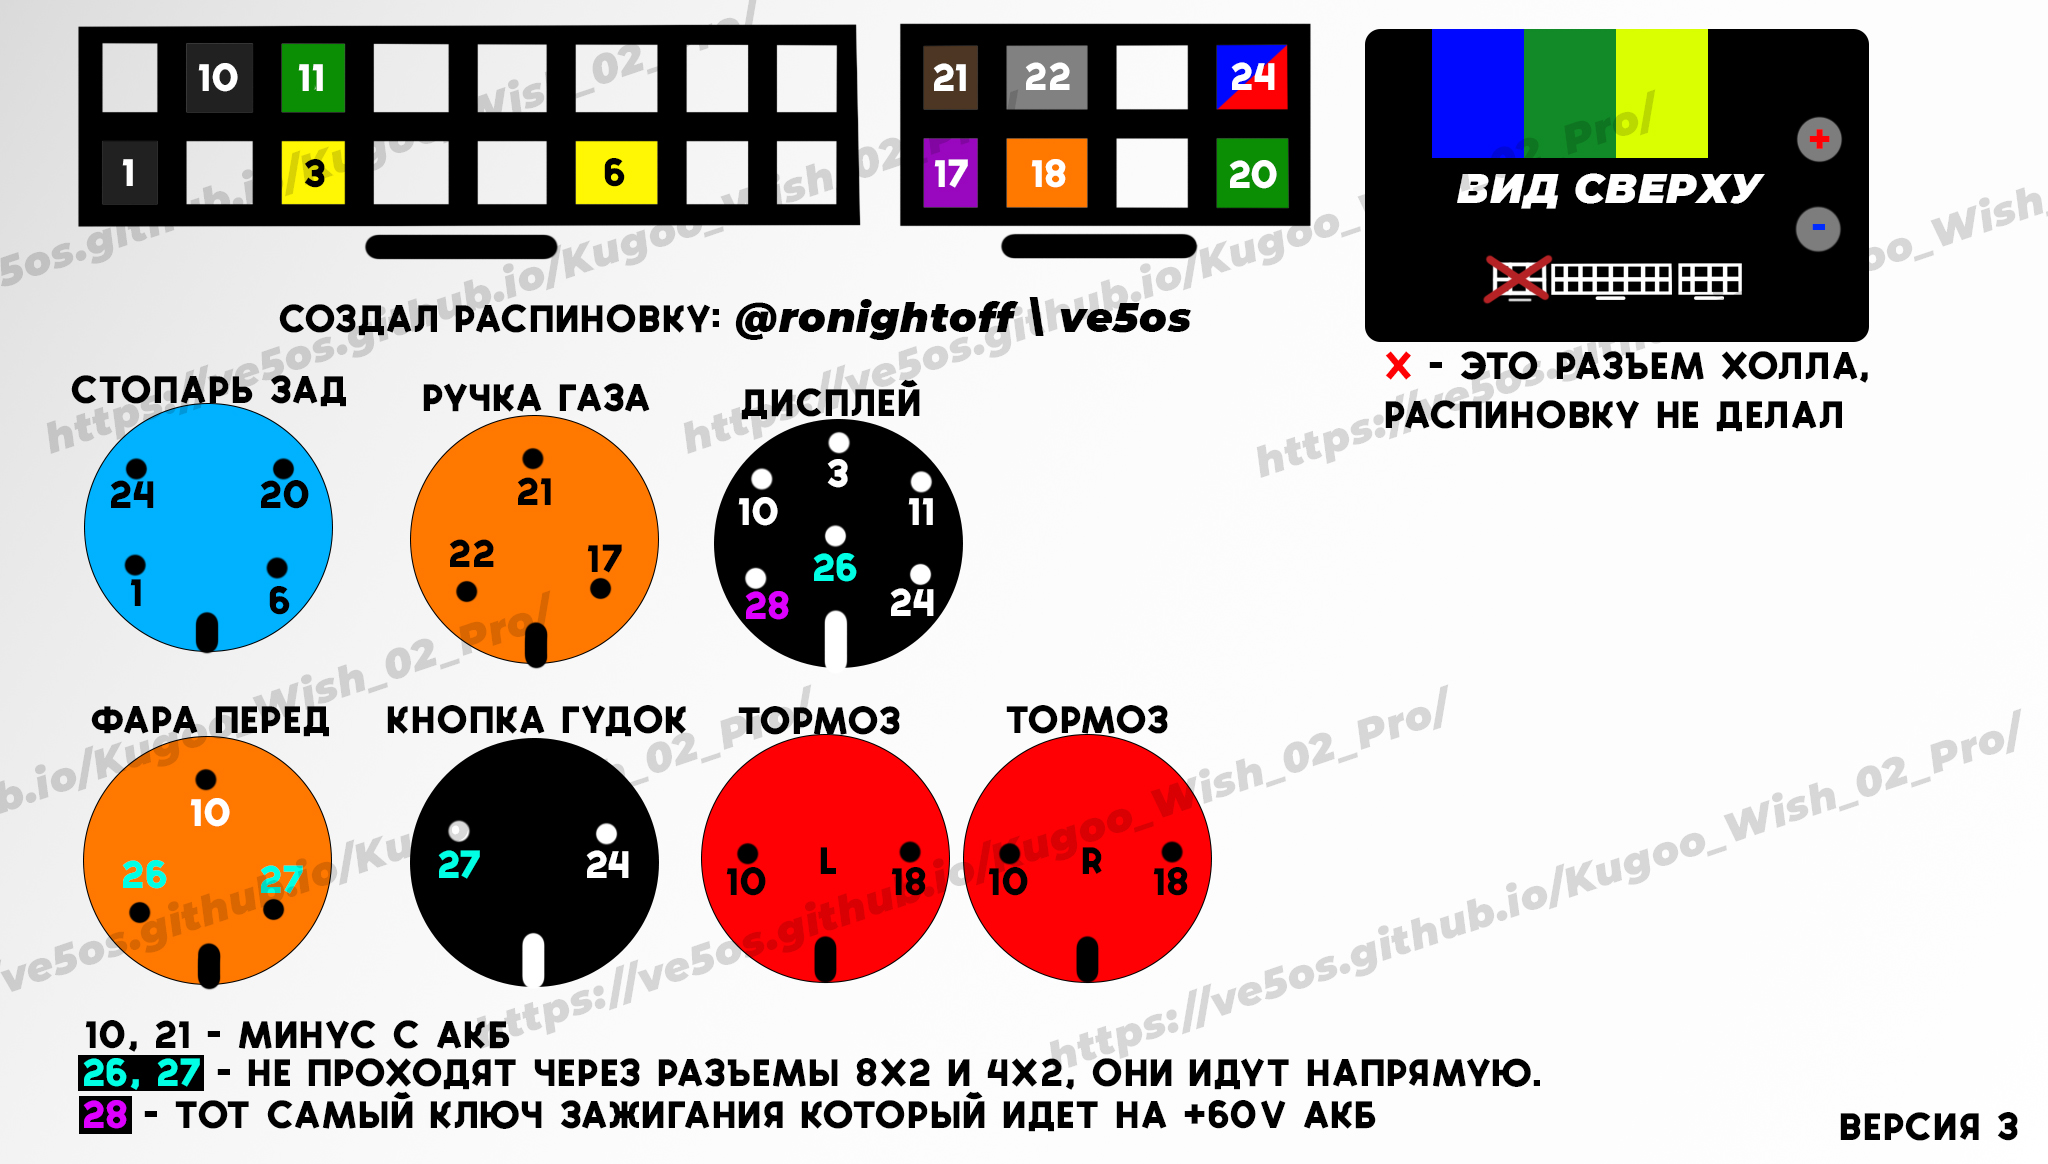
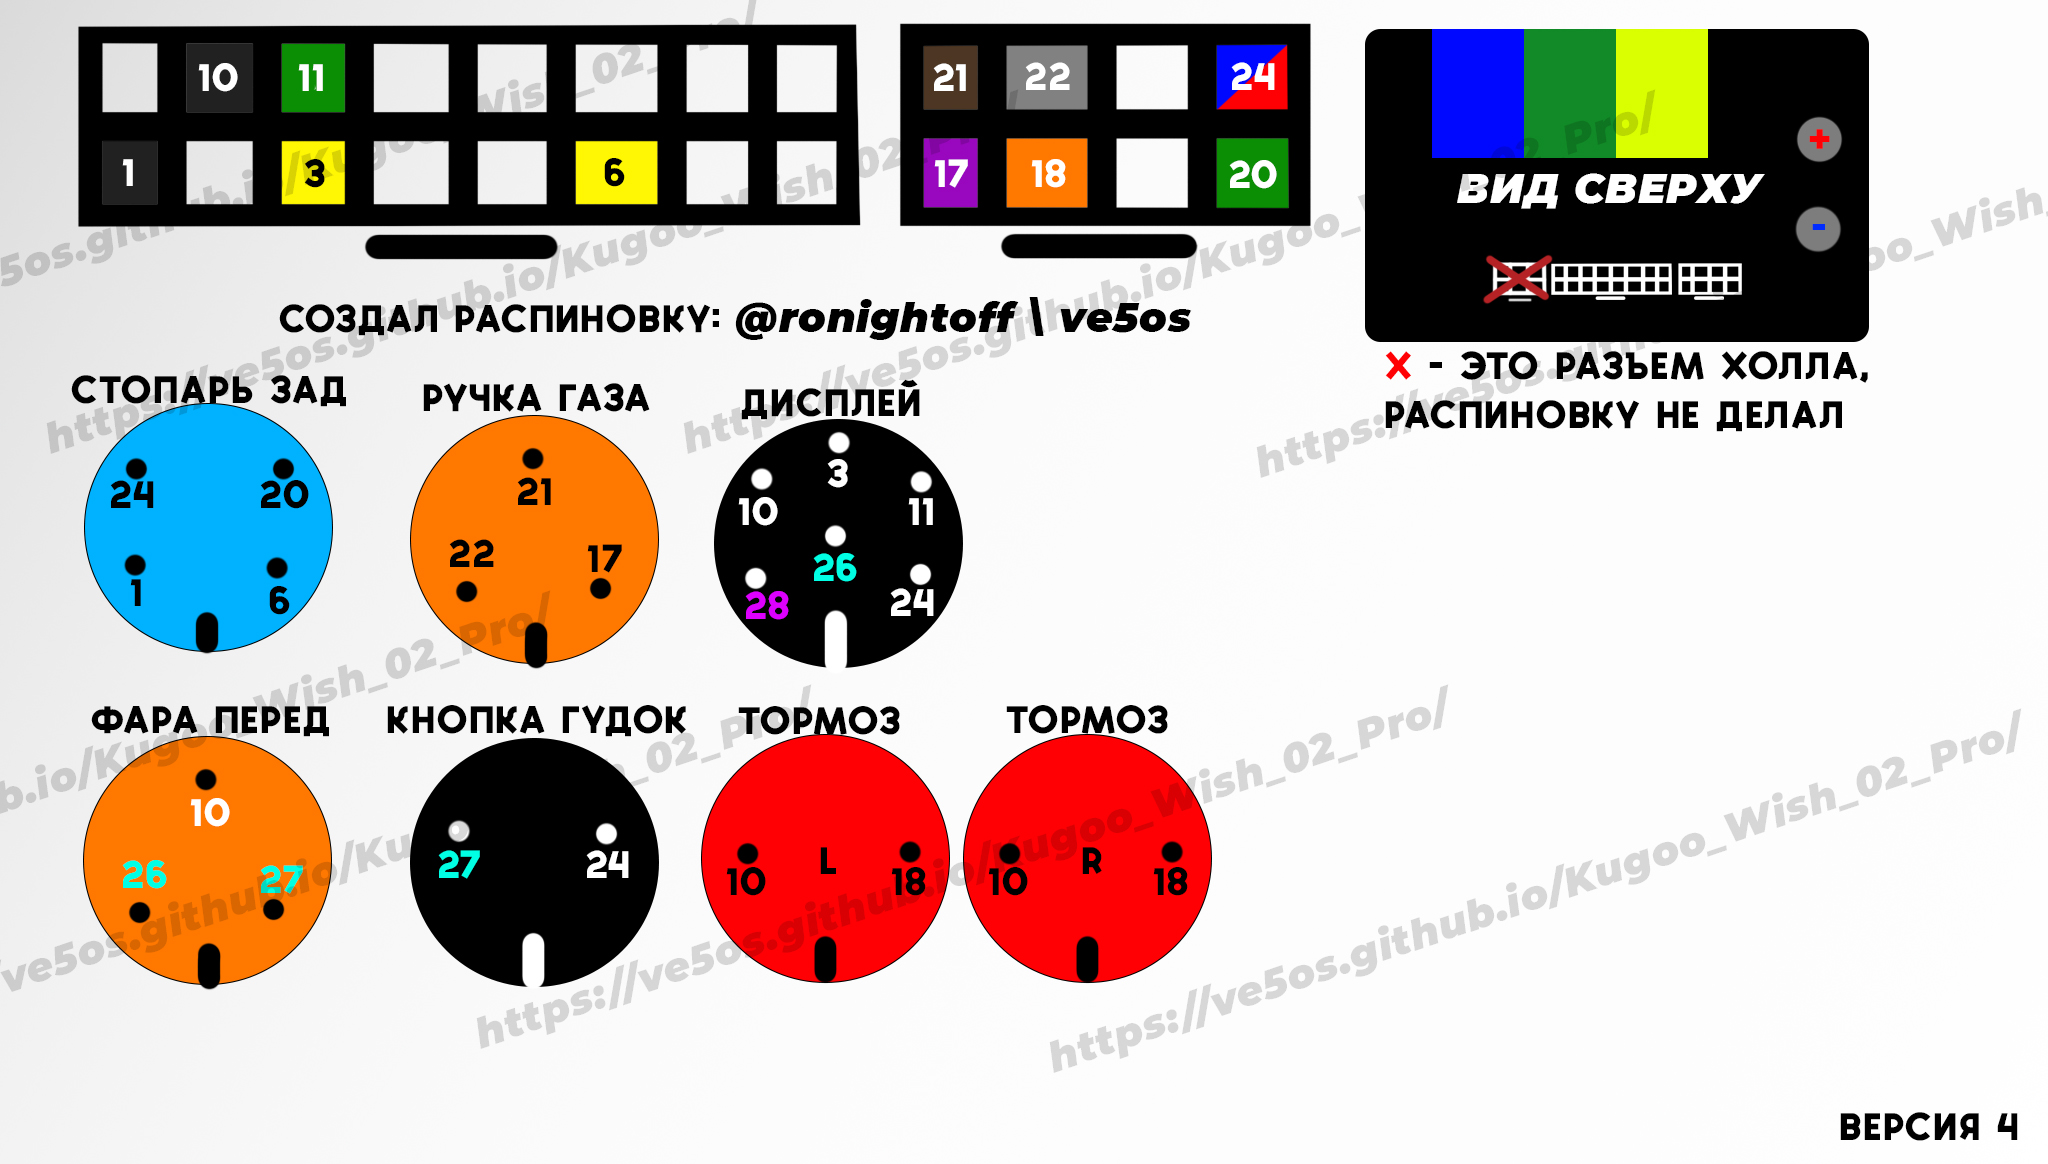
V4

Changed region(s): [[0.0312, 0.866, 0.75, 0.9897], [0.9688, 0.9588, 1.0, 0.9897]]

diff --git a/pages/wire.html b/pages/wire.html
@@ -117,6 +117,17 @@
     "></div>
     <br>
 
+    <div class="notification">
+  <strong>Разъяснение схемы</strong><br>
+  <p>10, 21 — Минус от АКБ</p>
+  <p>26, 27 — Не проходят через разъёмы 8×2 и 4×2, идут напрямую</p>
+  <p>28 — Ключ зажигания, подающий +60&nbsp;В от АКБ</p>
+  <p>20 — Правый поворотник (минус)</p>
+  <p>6 — Левый поворотник (минус)</p>
+  <p>1 — Стоп-сигнал (минус)</p>
+  <p>24 — Питание (+60&nbsp;В)</p>
+</div>
+
 <div class="notification is-info has-text-centered">
   <strong>Примечание!</strong><br>
   Поворотники и задний стоп-сигнал постоянно подключены к линии с напряжением <strong>60&nbsp;В</strong>.<br>
